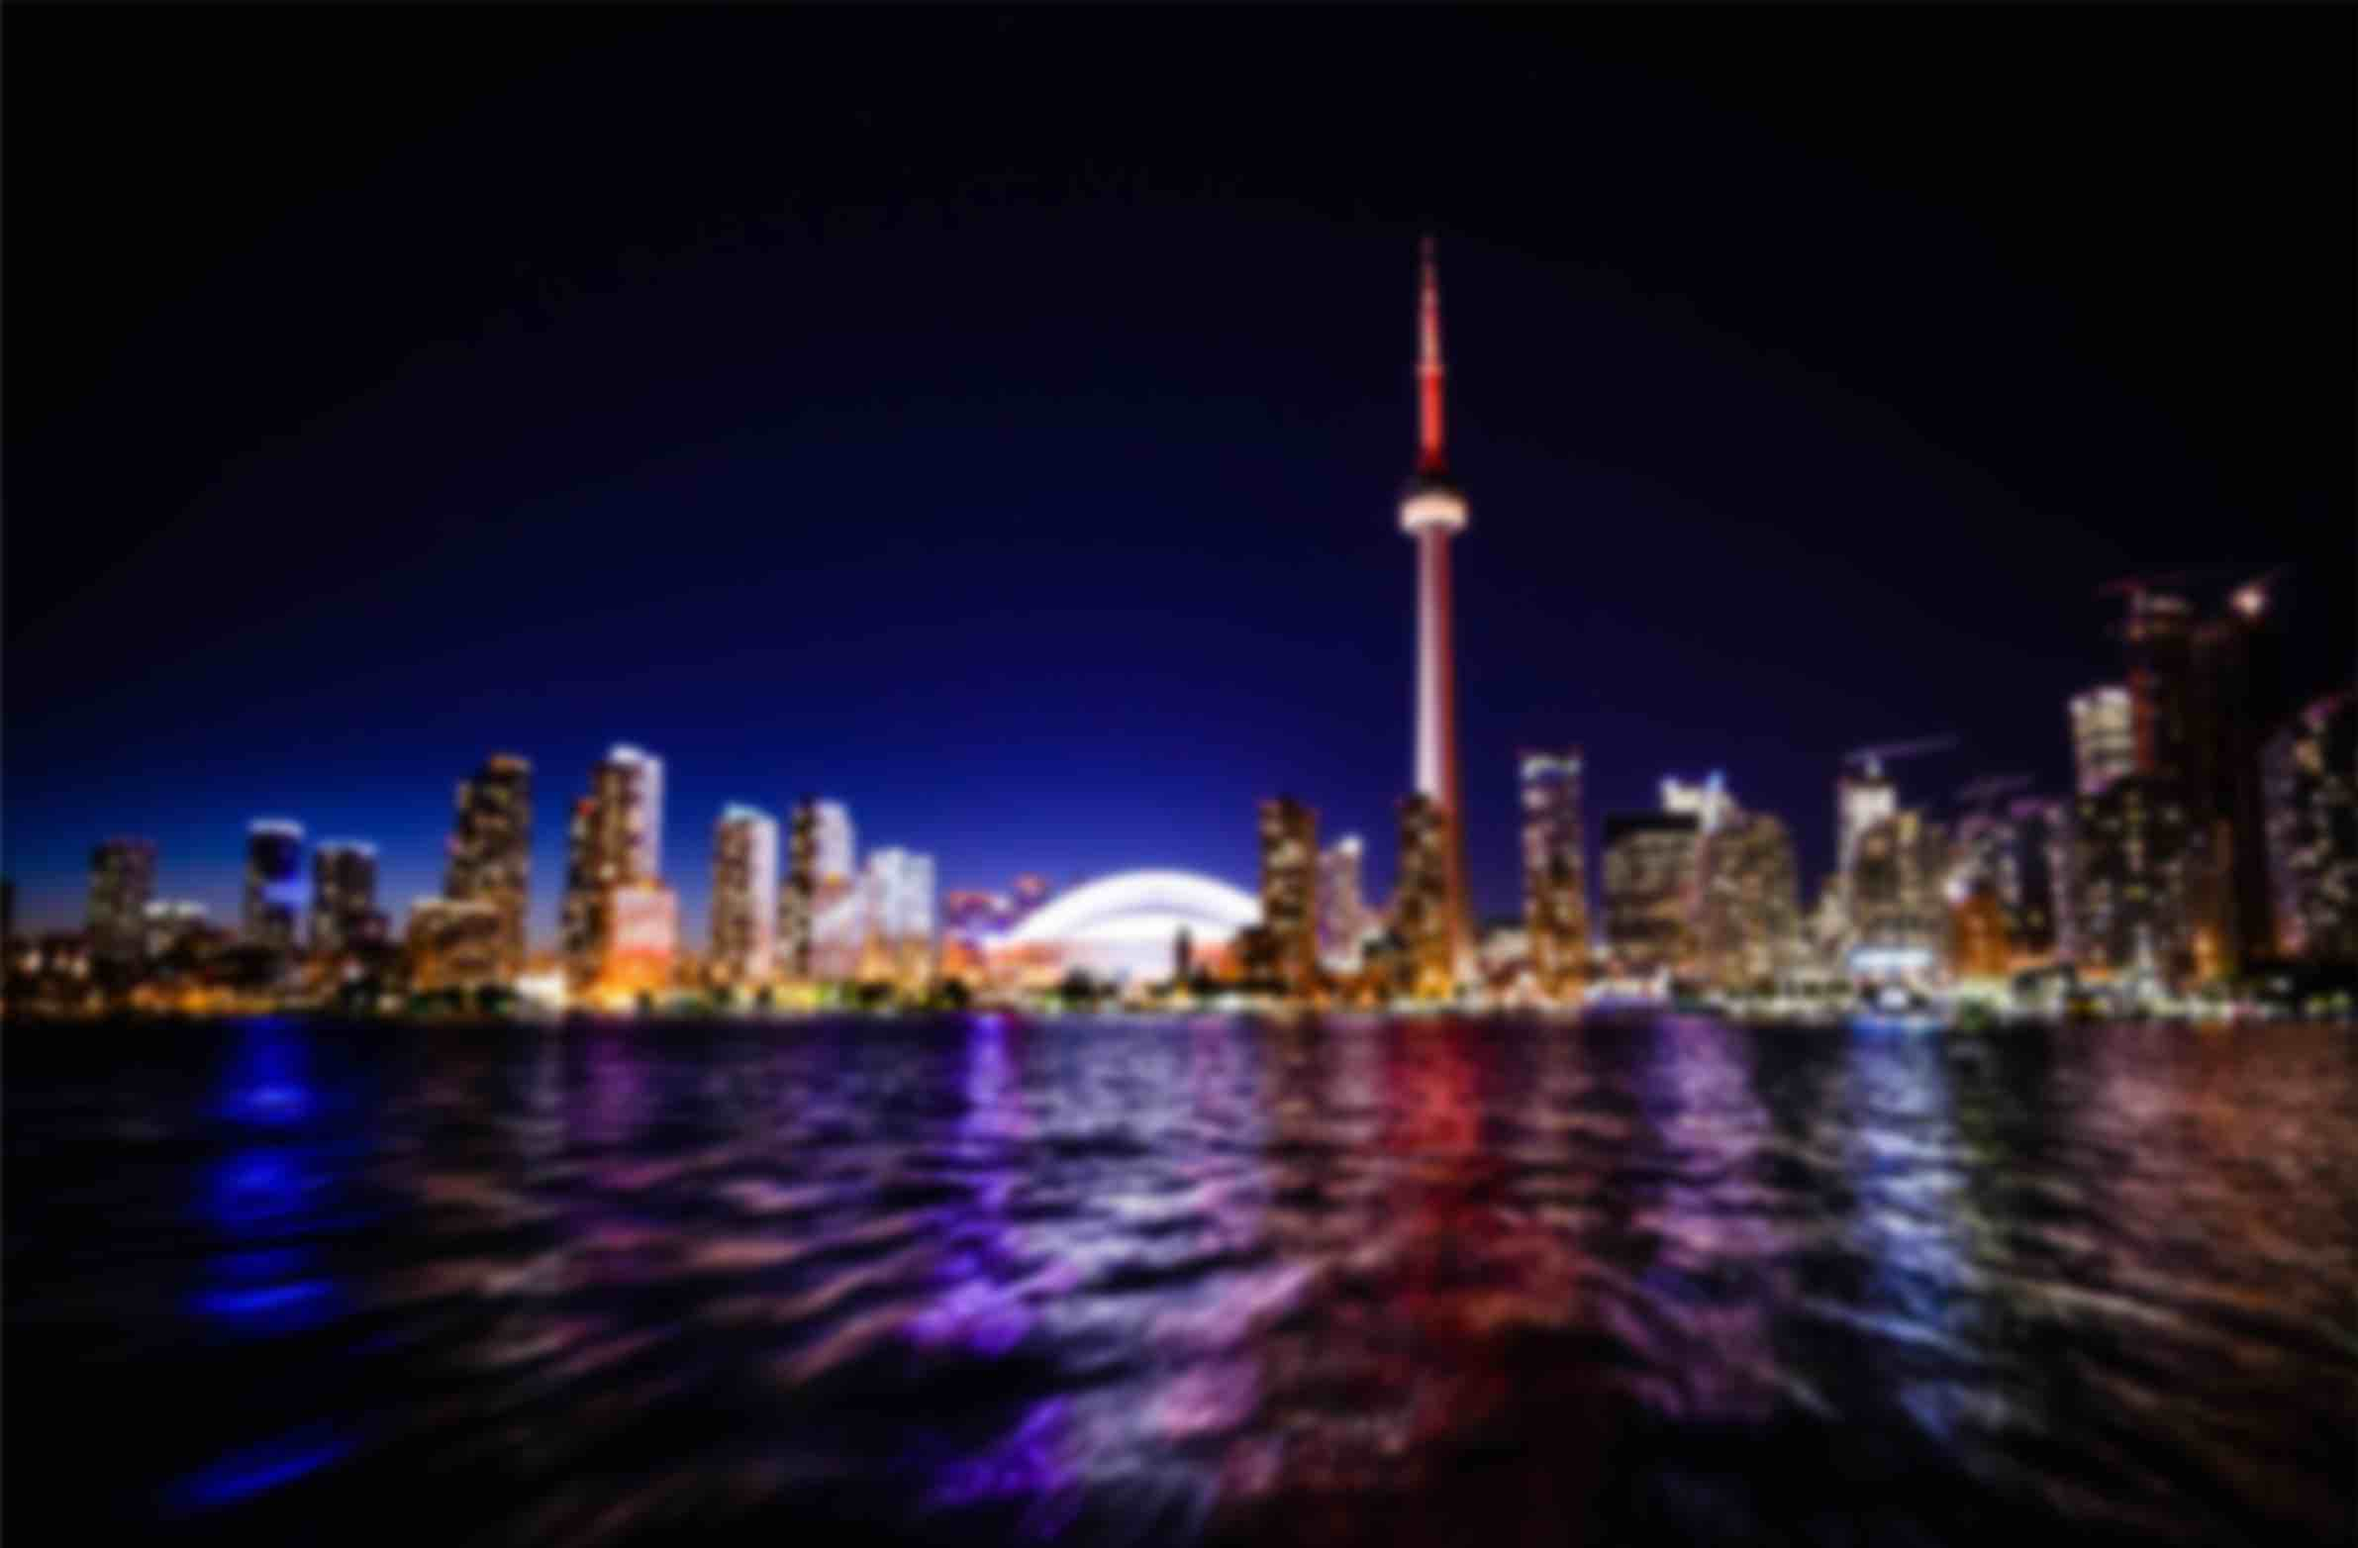
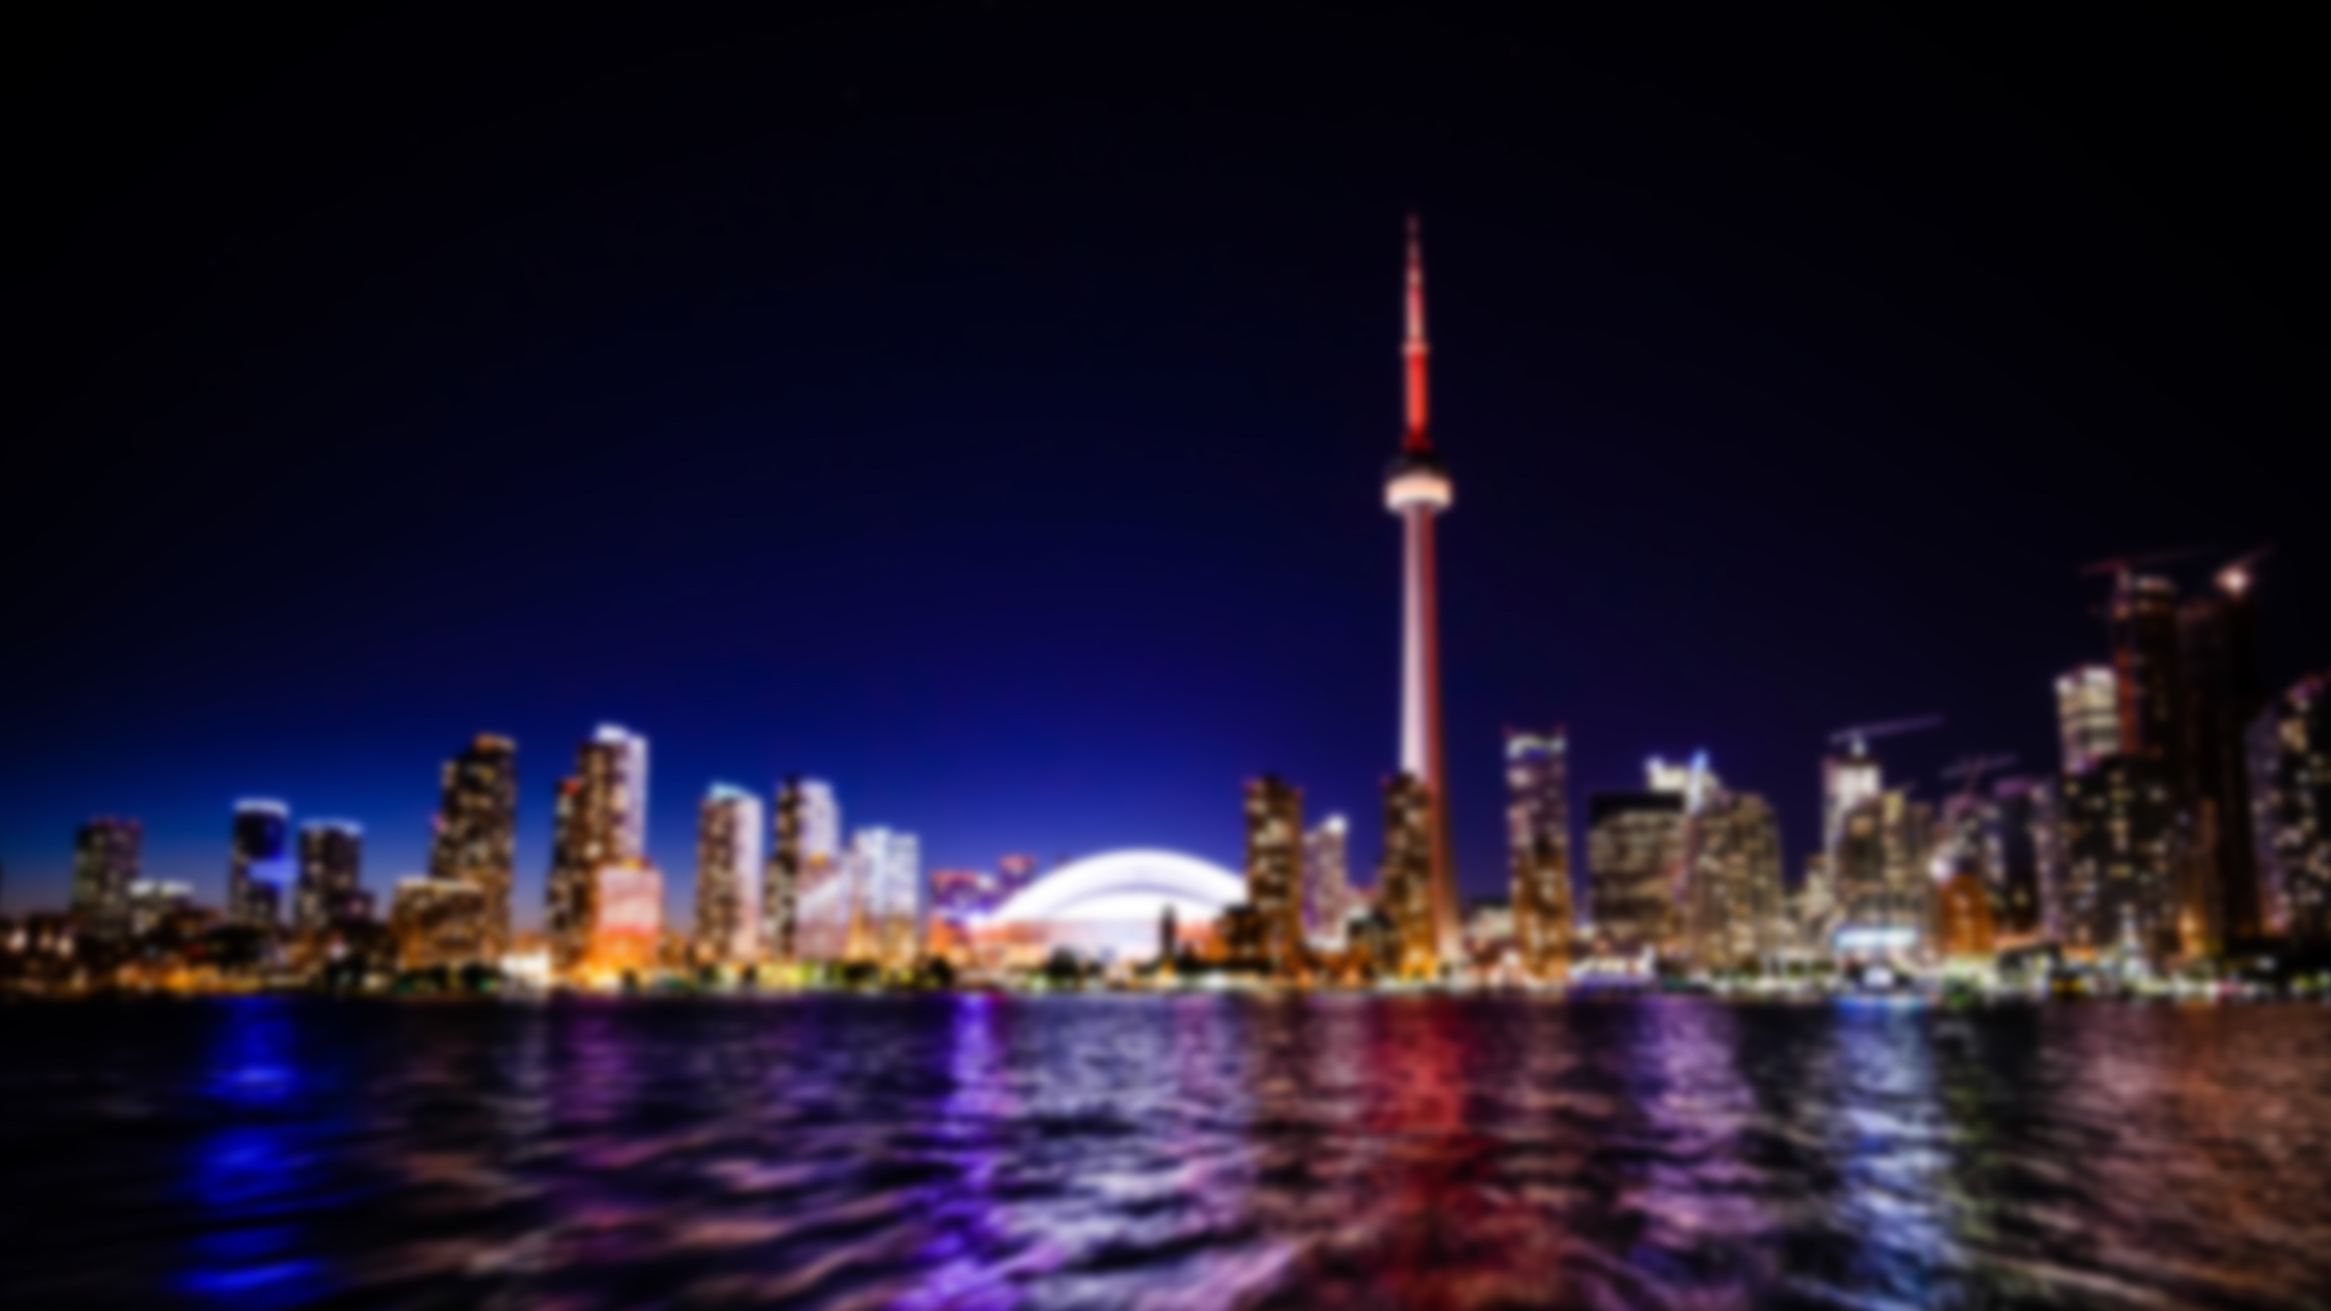
Opened up a dev page for experimenting with style
* I’ve introduced people to the page now, so I’m testing out new styles
and functionality on another page

diff --git a/css/main2.css b/css/main2.css
@@ -17,11 +17,28 @@ body, html {
 .title {
   width: 80%;
   text-align: center;
-  position: absolute;
+  position: fixed;
   left: 50%;
   top: 50%;
   -webkit-transform: translate(-50%, -50%);
   transform: translate(-50%, -50%);
+
+  background-image: url("../img/toronto.jpg");
+  background-size: cover;
+  background-position: center;
+
+  -webkit-filter: blur(5px);
+    -moz-filter: blur(5px);
+    -o-filter: blur(5px);
+    -ms-filter: blur(5px);
+    filter: blur(5px);
+    /*opacity: 0.4;*/
+
+  /*background-image: url("../img/background_blur.jpg");
+	background-repeat: no-repeat;
+  background-size: cover;
+  background-position: center;*/
+	/*background-attachment: fixed;*/
 }
 
 /* style for the activity header */

diff --git a/js/main.js b/js/main.js
@@ -75,15 +75,24 @@ function placeRequest(activity_object){
 
 // when the page is ready simulate a refresh
 $(document).ready(function(){
+
+  // change the size of the font depending on the dimensions of the screen
   alterFontSize();
+
+  // programatically update the page when it loads
   $('button').click()
 });
 
+// when the window is resized
 $( window ).resize(function() {
+
+  //change the size of the font depending on the dimensions of the screen
   alterFontSize();
 })
 
+// function to alter the size of the font depending on the aspect ratio
 function alterFontSize(){
+  
   if(window.innerHeight > window.innerWidth){
     $('.location_info').css('font-size', '4vw');
   } else {

diff --git a/index2.html b/index2.html
@@ -9,7 +9,7 @@
     <link rel="stylesheet" href="https://maxcdn.bootstrapcdn.com/font-awesome/4.5.0/css/font-awesome.min.css">
 
     <!-- own css files -->
-    <link href="css/main.css" rel="stylesheet"/>
+    <link href="css/main2.css" rel="stylesheet"/>
   </head>
 
   <body>
